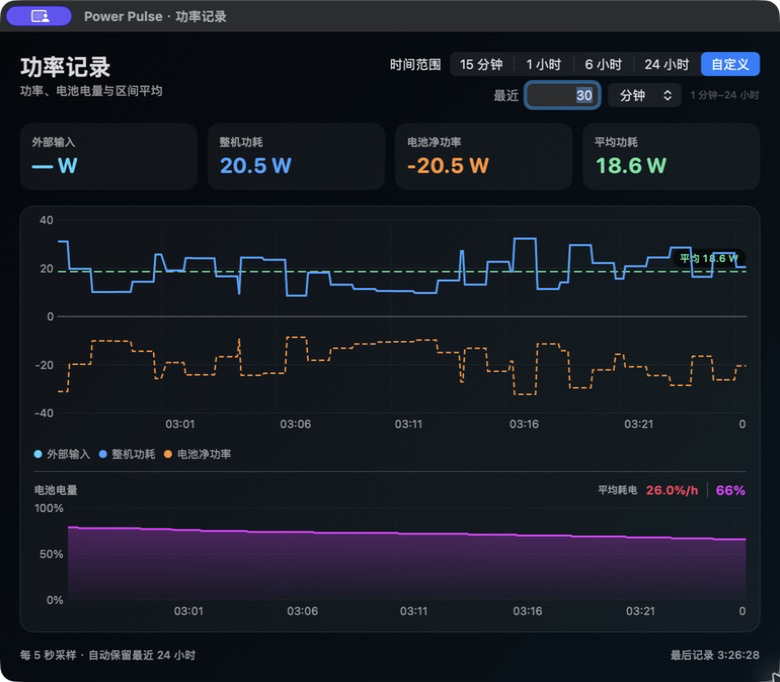
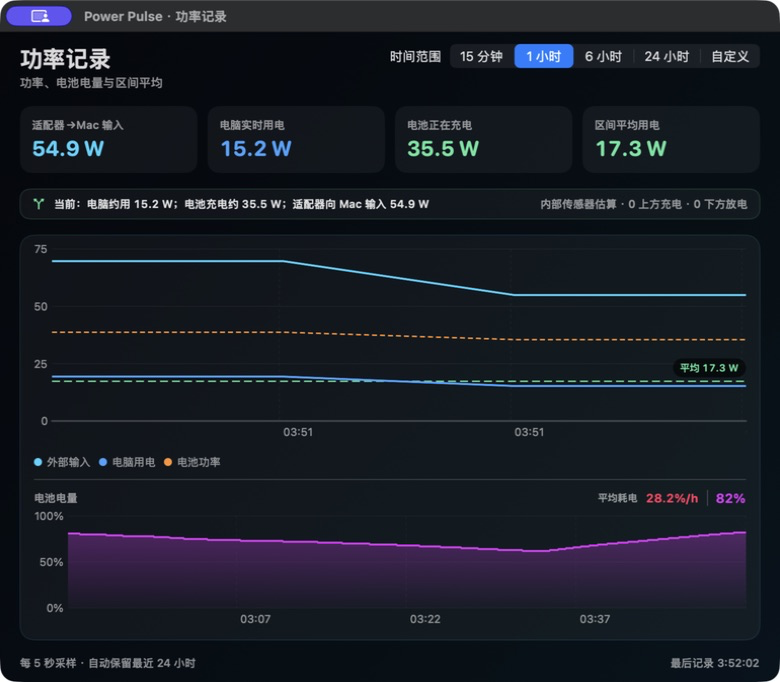
Correct power metric semantics

diff --git a/Sources/PowerPulse/PowerHistoryWindow.swift b/Sources/PowerPulse/PowerHistoryWindow.swift
@@ -69,8 +69,8 @@ struct PowerHistoryView: View {
 
     private var latest: PowerHistorySample? { store.samples.last }
 
-    private var averageSystemLoadW: Double? {
-        let values = filteredSamples.compactMap(\.systemLoadW)
+    private var averageComputerPowerW: Double? {
+        let values = filteredSamples.compactMap(\.computerPowerW)
         guard !values.isEmpty else { return nil }
         return values.reduce(0, +) / Double(values.count)
     }
@@ -96,10 +96,58 @@ struct PowerHistoryView: View {
         return max(0, netPercentDrop / (dischargeDuration / 3_600))
     }
 
+    private var batteryFlowTitle: String {
+        guard let sample = latest else { return "电池功率" }
+        guard sample.externalConnected else { return "电池供电" }
+        guard let power = sample.batteryPowerW else { return "电池功率" }
+        if power > 0.5 { return "电池正在充电" }
+        if power < -0.5 { return "电池正在放电" }
+        return "电池待机"
+    }
+
+    private var batteryFlowValue: Double? {
+        latest?.batteryPowerW.map(abs)
+    }
+
+    private var batteryFlowColor: Color {
+        guard let sample = latest, let power = sample.batteryPowerW else { return .secondary }
+        if sample.externalConnected, power > 0.5 { return Color(red: 0.35, green: 0.9, blue: 0.62) }
+        return .orange
+    }
+
+    private var powerFlowText: String {
+        guard let sample = latest else { return "正在等待功率数据" }
+
+        if !sample.externalConnected {
+            let batteryOutput = sample.batteryPowerW.map(abs) ?? sample.computerPowerW
+            if let batteryOutput, let load = sample.computerPowerW {
+                return "当前：电脑约用 \(formatWatts(load))；电池放电约 \(formatWatts(batteryOutput))"
+            }
+            return "当前由电池供电"
+        }
+
+        guard let input = sample.inputPowerW, let load = sample.computerPowerW else {
+            return "已接电源，正在等待完整功率数据"
+        }
+
+        if let batteryPower = sample.batteryPowerW, batteryPower > 0.5 {
+            return "当前：电脑约用 \(formatWatts(load))；电池充电约 \(formatWatts(batteryPower))；适配器向 Mac 输入 \(formatWatts(input))"
+        }
+        if let batteryPower = sample.batteryPowerW, batteryPower < -0.5 {
+            return "当前：电脑约用 \(formatWatts(load))；电池同时放电约 \(formatWatts(batteryPower))；适配器输入 \(formatWatts(input))"
+        }
+        return "当前：电脑约用 \(formatWatts(load))；适配器向 Mac 输入 \(formatWatts(input))"
+    }
+
+    private func formatWatts(_ value: Double) -> String {
+        String(format: "%.1f W", abs(value))
+    }
+
     var body: some View {
         VStack(alignment: .leading, spacing: 16) {
             header
             summaryCards
+            powerFlowSummary
             charts
             footer
         }
@@ -179,10 +227,31 @@ struct PowerHistoryView: View {
 
     private var summaryCards: some View {
         HStack(spacing: 10) {
-            metricCard("外部输入", latest?.inputPowerW, color: .cyan)
-            metricCard("整机功耗", latest?.systemLoadW, color: Color(red: 0.25, green: 0.64, blue: 1.0))
-            metricCard("电池净功率", latest?.batteryPowerW, signed: true, color: .orange)
-            metricCard("平均功耗", averageSystemLoadW, color: Color(red: 0.35, green: 0.9, blue: 0.62))
+            metricCard("适配器→Mac 输入", latest?.inputPowerW, color: .cyan)
+            metricCard("电脑实时用电", latest?.computerPowerW, color: Color(red: 0.25, green: 0.64, blue: 1.0))
+            metricCard(batteryFlowTitle, batteryFlowValue, color: batteryFlowColor)
+            metricCard("区间平均用电", averageComputerPowerW, color: Color(red: 0.35, green: 0.9, blue: 0.62))
+        }
+    }
+
+    private var powerFlowSummary: some View {
+        HStack(spacing: 8) {
+            Image(systemName: "arrow.triangle.branch")
+                .foregroundStyle(batteryFlowColor)
+            Text(powerFlowText)
+                .monospacedDigit()
+                .foregroundStyle(.white.opacity(0.88))
+            Spacer(minLength: 8)
+            Text("内部传感器估算 · 0 上方充电 · 0 下方放电")
+                .foregroundStyle(.secondary)
+        }
+        .font(.system(size: 11, weight: .semibold))
+        .padding(.horizontal, 12)
+        .padding(.vertical, 8)
+        .background(.white.opacity(0.045), in: RoundedRectangle(cornerRadius: 10, style: .continuous))
+        .overlay {
+            RoundedRectangle(cornerRadius: 10, style: .continuous)
+                .stroke(batteryFlowColor.opacity(0.16), lineWidth: 1)
         }
     }
 
@@ -242,8 +311,8 @@ struct PowerHistoryView: View {
             RuleMark(y: .value("零线", 0))
                 .foregroundStyle(.white.opacity(0.16))
 
-            if let average = averageSystemLoadW {
-                RuleMark(y: .value("平均功耗", average))
+            if let average = averageComputerPowerW {
+                RuleMark(y: .value("平均用电", average))
                     .foregroundStyle(Color(red: 0.35, green: 0.9, blue: 0.62).opacity(0.9))
                     .lineStyle(StrokeStyle(lineWidth: 1.5, dash: [8, 4]))
                     .annotation(position: .top, alignment: .trailing) {
@@ -267,30 +336,30 @@ struct PowerHistoryView: View {
                     .foregroundStyle(by: .value("指标", "外部输入"))
                     .lineStyle(StrokeStyle(lineWidth: 2))
                 }
-                if let value = sample.systemLoadW {
+                if let value = sample.computerPowerW {
                     LineMark(
                         x: .value("时间", sample.recordedAt),
                         y: .value("功率", value),
-                        series: .value("指标", "整机功耗")
+                        series: .value("指标", "电脑用电")
                     )
-                    .foregroundStyle(by: .value("指标", "整机功耗"))
+                    .foregroundStyle(by: .value("指标", "电脑用电"))
                     .lineStyle(StrokeStyle(lineWidth: 2))
                 }
                 if let value = sample.batteryPowerW {
                     LineMark(
                         x: .value("时间", sample.recordedAt),
                         y: .value("功率", value),
-                        series: .value("指标", "电池净功率")
+                        series: .value("指标", "电池功率")
                     )
-                    .foregroundStyle(by: .value("指标", "电池净功率"))
+                    .foregroundStyle(by: .value("指标", "电池功率"))
                     .lineStyle(StrokeStyle(lineWidth: 1.5, dash: [5, 3]))
                 }
             }
         }
         .chartForegroundStyleScale([
             "外部输入": Color.cyan,
-            "整机功耗": Color(red: 0.25, green: 0.64, blue: 1.0),
-            "电池净功率": Color.orange
+            "电脑用电": Color(red: 0.25, green: 0.64, blue: 1.0),
+            "电池功率": Color.orange
         ])
         .chartLegend(position: .bottom, alignment: .leading, spacing: 16)
         .chartXAxis {

diff --git a/Sources/PowerPulse/PowerTelemetry.swift b/Sources/PowerPulse/PowerTelemetry.swift
@@ -5,7 +5,7 @@ import IOKit.ps
 struct PowerSnapshot {
     let readAt: Date
     let inputPowerW: Double?
-    let systemLoadW: Double?
+    let computerPowerW: Double?
     let inputVoltageV: Double?
     let inputCurrentA: Double?
     let batteryVoltageV: Double?
@@ -22,18 +22,18 @@ struct PowerSnapshot {
 
     var displayPowerW: Double? {
         if externalConnected { return inputPowerW }
-        return systemLoadW ?? batteryPowerW.map(abs)
+        return computerPowerW ?? batteryPowerW.map(abs)
     }
 
     var displayPowerLabel: String {
-        externalConnected ? "MAC 侧实时输入" : "电脑实时总功耗"
+        externalConnected ? "适配器→Mac 输入" : "电脑实时用电"
     }
 
     var stateText: String {
         if !externalConnected { return "电池供电" }
         if isFullyCharged { return "已充满" }
         if let batteryPowerW, batteryPowerW > 0.3 { return "电池充电中" }
-        if let batteryPowerW, batteryPowerW < -0.3 { return "电池补充供电" }
+        if let batteryPowerW, batteryPowerW < -0.3 { return "电池放电中" }
         if isCharging { return "充电待机" }
         return "已连接 · 未充电"
     }
@@ -68,9 +68,7 @@ final class PowerReader {
         let full = bool(properties["FullyCharged"]) ?? false
 
         let systemPowerMW = signedNumber(telemetry?["SystemPowerIn"]).map(abs)
-        let systemLoadMW = signedNumber(telemetry?["SystemLoad"]).map(abs)
-        let rawBatteryPowerMW = signedNumber(telemetry?["BatteryPower"])
-        let batteryPowerMW = rawBatteryPowerMW.map { connected ? $0 : -abs($0) }
+        let measuredSystemConsumptionMW = signedNumber(telemetry?["SystemEnergyConsumed"]).map(abs)
         let voltageMV = signedNumber(telemetry?["SystemVoltageIn"]).map(abs)
         let currentMA = signedNumber(telemetry?["SystemCurrentIn"]).map(abs)
         let batteryVoltageMV = (
@@ -80,13 +78,18 @@ final class PowerReader {
         let rawBatteryCurrentMA = signedNumber(properties["InstantAmperage"])
             ?? signedNumber(properties["Amperage"])
         let batteryCurrentMA = rawBatteryCurrentMA.map { connected ? $0 : -abs($0) }
-
-        let reliableBatteryPowerMW: Double? = {
-            guard let batteryPowerMW else { return nil }
-            guard let systemPowerMW, let systemLoadMW else { return batteryPowerMW }
-            let balancePower = systemPowerMW - systemLoadMW
-            let tolerance = max(300, abs(systemPowerMW) * 0.03)
-            return abs(batteryPowerMW - balancePower) <= tolerance ? batteryPowerMW : nil
+        let measuredBatteryPowerMW: Double? = {
+            guard let voltage = batteryVoltageMV, let current = batteryCurrentMA else { return nil }
+            let power = voltage * current / 1_000
+            guard power.isFinite, abs(power) <= 250_000 else { return nil }
+            return power
+        }()
+        let systemConsumptionMW: Double? = {
+            if let measuredSystemConsumptionMW { return measuredSystemConsumptionMW }
+            if connected, let input = systemPowerMW, let battery = measuredBatteryPowerMW {
+                return max(0, input - battery)
+            }
+            return measuredBatteryPowerMW.map(abs)
         }()
 
         let ratedPower = signedNumber(publicAdapter?[kIOPSPowerAdapterWattsKey as String])
@@ -102,18 +105,18 @@ final class PowerReader {
         }()
         let hasDisplayTelemetry = connected
             ? systemPowerMW != nil
-            : (systemLoadMW != nil || reliableBatteryPowerMW != nil)
+            : (systemConsumptionMW != nil || measuredBatteryPowerMW != nil)
 
         return PowerSnapshot(
             readAt: Date(),
             inputPowerW: connected ? systemPowerMW.map { $0 / 1_000 } : nil,
-            systemLoadW: systemLoadMW.map { $0 / 1_000 },
+            computerPowerW: systemConsumptionMW.map { $0 / 1_000 },
             inputVoltageV: connected ? voltageMV.map { $0 / 1_000 } : nil,
             inputCurrentA: connected ? currentMA.map { $0 / 1_000 } : nil,
             batteryVoltageV: batteryVoltageMV.map { $0 / 1_000 },
             batteryCurrentA: batteryCurrentMA.map { $0 / 1_000 },
             ratedPowerW: connected ? ratedPower : nil,
-            batteryPowerW: reliableBatteryPowerMW.map { $0 / 1_000 },
+            batteryPowerW: measuredBatteryPowerMW.map { $0 / 1_000 },
             batteryPercent: signedNumber(properties["CurrentCapacity"]).map { Int($0.rounded()) },
             externalConnected: connected,
             isCharging: charging,

diff --git a/Sources/PowerPulse/PowerHistory.swift b/Sources/PowerPulse/PowerHistory.swift
@@ -4,46 +4,51 @@ import Foundation
 struct PowerHistorySample: Codable, Identifiable {
     let recordedAt: Date
     let inputPowerW: Double?
-    let systemLoadW: Double?
+    let computerPowerW: Double?
     let batteryPowerW: Double?
     let batteryPercent: Int?
     let externalConnected: Bool
+    let measurementVersion: Int?
 
     var id: Date { recordedAt }
 
     init(snapshot: PowerSnapshot) {
         recordedAt = snapshot.readAt
         inputPowerW = snapshot.inputPowerW
-        systemLoadW = snapshot.systemLoadW
+        computerPowerW = snapshot.computerPowerW
         batteryPowerW = snapshot.batteryPowerW
         batteryPercent = snapshot.batteryPercent
         externalConnected = snapshot.externalConnected
+        measurementVersion = 2
     }
 
     private init(
         recordedAt: Date,
         inputPowerW: Double?,
-        systemLoadW: Double?,
+        computerPowerW: Double?,
         batteryPowerW: Double?,
         batteryPercent: Int?,
-        externalConnected: Bool
+        externalConnected: Bool,
+        measurementVersion: Int?
     ) {
         self.recordedAt = recordedAt
         self.inputPowerW = inputPowerW
-        self.systemLoadW = systemLoadW
+        self.computerPowerW = computerPowerW
         self.batteryPowerW = batteryPowerW
         self.batteryPercent = batteryPercent
         self.externalConnected = externalConnected
+        self.measurementVersion = measurementVersion
     }
 
     var normalized: PowerHistorySample {
         PowerHistorySample(
             recordedAt: recordedAt,
-            inputPowerW: inputPowerW.map(abs),
-            systemLoadW: systemLoadW.map(abs),
-            batteryPowerW: batteryPowerW.map { externalConnected ? $0 : -abs($0) },
+            inputPowerW: measurementVersion == 2 ? inputPowerW.map(abs) : nil,
+            computerPowerW: measurementVersion == 2 ? computerPowerW.map(abs) : nil,
+            batteryPowerW: measurementVersion == 2 ? batteryPowerW.map { externalConnected ? $0 : -abs($0) } : nil,
             batteryPercent: batteryPercent,
-            externalConnected: externalConnected
+            externalConnected: externalConnected,
+            measurementVersion: measurementVersion
         )
     }
 }

diff --git a/Sources/PowerPulse/main.swift b/Sources/PowerPulse/main.swift
@@ -11,12 +11,12 @@ if CommandLine.arguments.contains("--diagnose") {
         print("Power Pulse 本机诊断")
         print("当前主功率: \(value.displayPowerLabel) · \(show(value.displayPowerW)) W")
         print("Mac 侧输入: \(show(value.inputPowerW)) W")
-        print("整机功耗: \(show(value.systemLoadW)) W")
+        print("电脑实时用电: \(show(value.computerPowerW)) W")
         print("实时参数: \(show(value.inputVoltageV)) V / \(show(value.inputCurrentA)) A")
         print("充电器额定: \(show(value.ratedPowerW, decimals: 0)) W")
         print("协议: \(value.protocolName) · \(value.contractDescription ?? "合约未知")")
         print("电池: \(value.batteryPercent.map(String.init) ?? "未知")% · \(value.stateText)")
-        print("电池净功率: \(show(value.batteryPowerW)) W（正值充入，负值放出）")
+        print("电池侧功率: \(show(value.batteryPowerW)) W（正值充电，负值放电）")
         print("遥测可用: \(value.telemetryAvailable ? "是" : "否")")
         exit(value.telemetryAvailable ? EXIT_SUCCESS : EXIT_FAILURE)
     } catch {

diff --git a/Sources/PowerPulse/AppDelegate.swift b/Sources/PowerPulse/AppDelegate.swift
@@ -40,7 +40,7 @@ final class AppDelegate: NSObject, NSApplicationDelegate, NSMenuDelegate {
         statusItem = NSStatusBar.system.statusItem(withLength: NSStatusItem.variableLength)
         statusItem.button?.title = "⚡ — W"
         statusItem.button?.font = NSFont.monospacedDigitSystemFont(ofSize: 12, weight: .semibold)
-        statusItem.button?.toolTip = "Power Pulse · 实时供电与系统功耗"
+        statusItem.button?.toolTip = "Power Pulse · 实时供电与电脑用电"
 
         let menu = NSMenu()
         menu.delegate = self

diff --git a/PowerPulseWidget/PowerPulseWidget.swift b/PowerPulseWidget/PowerPulseWidget.swift
@@ -128,8 +128,11 @@ struct PowerPulseWidgetView: View {
     }
 
     private var netBatteryText: String {
-        guard let power = snapshot?.batteryPowerW else { return "净 — W" }
-        return String(format: "净 %+.1f W", power)
+        guard let power = snapshot?.batteryPowerW else { return "电池 — W" }
+        if abs(power) < 0.5 { return "电池待机" }
+        return power > 0
+            ? String(format: "充电 %.1f W", power)
+            : String(format: "放电 %.1f W", abs(power))
     }
 }
 

diff --git a/README.md b/README.md
@@ -4,15 +4,16 @@
   <img src="App/Assets.xcassets/AppIcon.appiconset/icon_512x512@2x.png" width="128" alt="Power Pulse app icon">
 </p>
 
-Power Pulse 是一个 macOS 原生供电监控工具，包含真正的 WidgetKit 桌面小组件、实时菜单栏读数和最近 24 小时的功率历史。接通电源时显示 Mac 侧输入功率，使用电池时自动切换为电脑实时总功耗。桌面组件使用系统网格占位，Finder 桌面文件不会与它重叠；菜单栏通过 IOKit 每 5 秒读取并记录一次本机功率与电量。
+Power Pulse 是一个 macOS 原生供电监控工具，包含真正的 WidgetKit 桌面小组件、实时菜单栏读数和最近 24 小时的功率历史。接通电源时显示适配器向 Mac 输入的功率，使用电池时自动切换为电脑实时用电。桌面组件使用系统网格占位，Finder 桌面文件不会与它重叠；菜单栏通过 IOKit 每 5 秒读取并记录一次本机功率与电量。
 
 ## 主要功能
 
 - 真正的 WidgetKit 桌面小组件：占用系统组件网格，不置顶，也不覆盖 Finder 桌面文件。
-- 菜单栏实时读数：接电显示 Mac 侧输入功率，电池供电显示整机功耗。
-- 供电详情：额定功率、USB-C PD 合约、电压、电流、电量和电池净功率。
-- 历史曲线：同步记录外部输入、整机功耗、电池净功率与电量百分比，保留最近 24 小时。
-- 区间统计：显示平均功耗和平均每小时耗电百分比，支持 15 分钟、1 小时、6 小时、24 小时及自定义窗口。
+- 菜单栏实时读数：接电显示适配器→Mac 输入，电池供电显示电脑实时用电。
+- 供电详情：额定功率、USB-C PD 合约、电压、电流、电量和电池充/放电功率。
+- 历史曲线：同步记录适配器输入、电脑用电、电池功率与电量百分比，保留最近 24 小时。
+- 清晰的功率流：直接写明电脑用了多少、电池在充电还是放电，以及适配器向 Mac 输入多少。
+- 区间统计：显示区间平均电脑用电和平均每小时耗电百分比，支持 15 分钟、1 小时、6 小时、24 小时及自定义窗口。
 - 完全本地运行：不需要 sudo、网络账户或后台上传。
 
 ## 界面
@@ -34,7 +35,7 @@ Power Pulse 是一个 macOS 原生供电监控工具，包含真正的 WidgetKit
 ## 实现方式与取舍
 
 - WidgetKit 提供真正的桌面占位、拖放和系统编辑体验，但刷新频率由 macOS 调度，不能保证秒级更新。
-- 菜单栏由宿主 App 每 5 秒读取一次 IOKit：接电显示输入功率，电池供电显示整机负载。
+- 菜单栏由宿主 App 每 5 秒读取一次 IOKit：接电显示输入功率，电池供电显示电脑用电估算。
 - 菜单栏中的“打开功率曲线…”记录功率和电池电量，提供区间平均、自定义 1 分钟至 24 小时窗口与最近 24 小时本地历史。
 - 不再使用自定义桌面窗口，因此不会置顶，也不会与 Finder 文件争抢位置。
 - 运行时不需要 Homebrew、Node、sudo 或网络。
@@ -51,15 +52,18 @@ open "dist/Power Pulse.app"
 
 ## 功率曲线
 
-点击菜单栏中的 Power Pulse 瓦数，再选择“打开功率曲线…”。曲线复用菜单栏的 5 秒采样，不会额外轮询硬件；功率与电池电量百分比同步记录，自动保留最近 24 小时，跨应用重启继续记录。顶部的“平均功耗”和图内虚线按当前选择的时间范围，由整机功耗样本实时计算；电量曲线的“平均耗电”按电池供电时段的净电量下降百分点除以时长计算，充电时段不计入。除 15 分钟、1 小时、6 小时和 24 小时预设外，也可自定义最近 1 分钟至 24 小时的窗口，所有曲线和平均指标会同步重算。
+点击菜单栏中的 Power Pulse 瓦数，再选择“打开功率曲线…”。顶部卡片明确区分“适配器→Mac 输入”“电脑实时用电”和“电池正在充电/放电”；下方一句话直接写明当前功率流，不需要自己根据正负号推算。电池功率曲线以零线区分方向：零线上方表示充电，零线下方表示放电。
 
-历史数据保存在 App 沙盒的 `Library/Application Support/Power Pulse/power-history.jsonl`，不需要网络，也不会上传。
+曲线复用菜单栏的 5 秒采样，不会额外轮询硬件；功率与电池电量百分比同步记录，自动保留最近 24 小时，跨应用重启继续记录。电量曲线的“平均耗电”按电池供电时段的净电量下降百分点除以时长计算，充电时段不计入。除 15 分钟、1 小时、6 小时和 24 小时预设外，也可自定义最近 1 分钟至 24 小时的窗口，所有曲线和平均指标会同步重算。
+
+历史数据保存在 App 沙盒的 `Library/Application Support/Power Pulse/power-history.jsonl`，不需要网络，也不会上传。1.7 之前按 `SystemLoad` 记录的功率样本不会参与新版功率曲线和平均值，原有电量百分比记录仍会保留。
 
 ## 指标边界
 
-- “Mac 侧实时输入”来自私有 IOKit 字段 `PowerTelemetryData.SystemPowerIn`，单位由 `V × A` 与功率值交叉校验。
-- “电脑实时总功耗”来自私有 IOKit 字段 `PowerTelemetryData.SystemLoad`；电池模式下再与 `BatteryPower` 的绝对值交叉核验。
-- “电池净功率”来自私有遥测 `BatteryPower`，并用同一批样本的 `SystemPowerIn − SystemLoad` 做一致性检查；正值表示净充入、负值表示电池正在补充系统负载，不一致时显示为不可用。它是 Mac 内部遥测，不等同于外置电池分析仪的计量值。
+- “适配器→Mac 输入”来自私有 IOKit 字段 `PowerTelemetryData.SystemPowerIn`，单位由输入电压 × 输入电流交叉校验。它包含电脑当时使用的电力和送往电池充电路径的电力。
+- “电脑实时用电”优先来自 `PowerTelemetryData.SystemEnergyConsumed`。尽管字段名含 `Energy`，本机连续样本与其累计值变化表明当前值以 mW 表示功率；因此这里仍标为内部遥测估算。
+- “电池功率”由电池端 `Voltage × (InstantAmperage / Amperage)` 计算；正值表示充电，负值表示放电。各传感器并非完全同步，适配器输入、电脑用电与电池功率可能有少量瞬时差额。
+- 私有字段 `PowerTelemetryData.SystemLoad` 不再作为“整机功耗”：在实机充电状态下它可明显大于适配器输入，并不符合可直接展示为当前电脑用电的口径。
 - 额定功率优先来自公开 API `IOPSCopyExternalPowerAdapterDetails()`。
 - 协议只显示本机能可靠确认的 `USB-C PD` 与当前合约档位，不臆测具体 PD 修订版。
 - Mac 读到的是适配器到电脑的直流侧输入，并非插座交流侧电表实测值；若需要真正的“墙端功率”，仍需智能插座或外置功率计。
